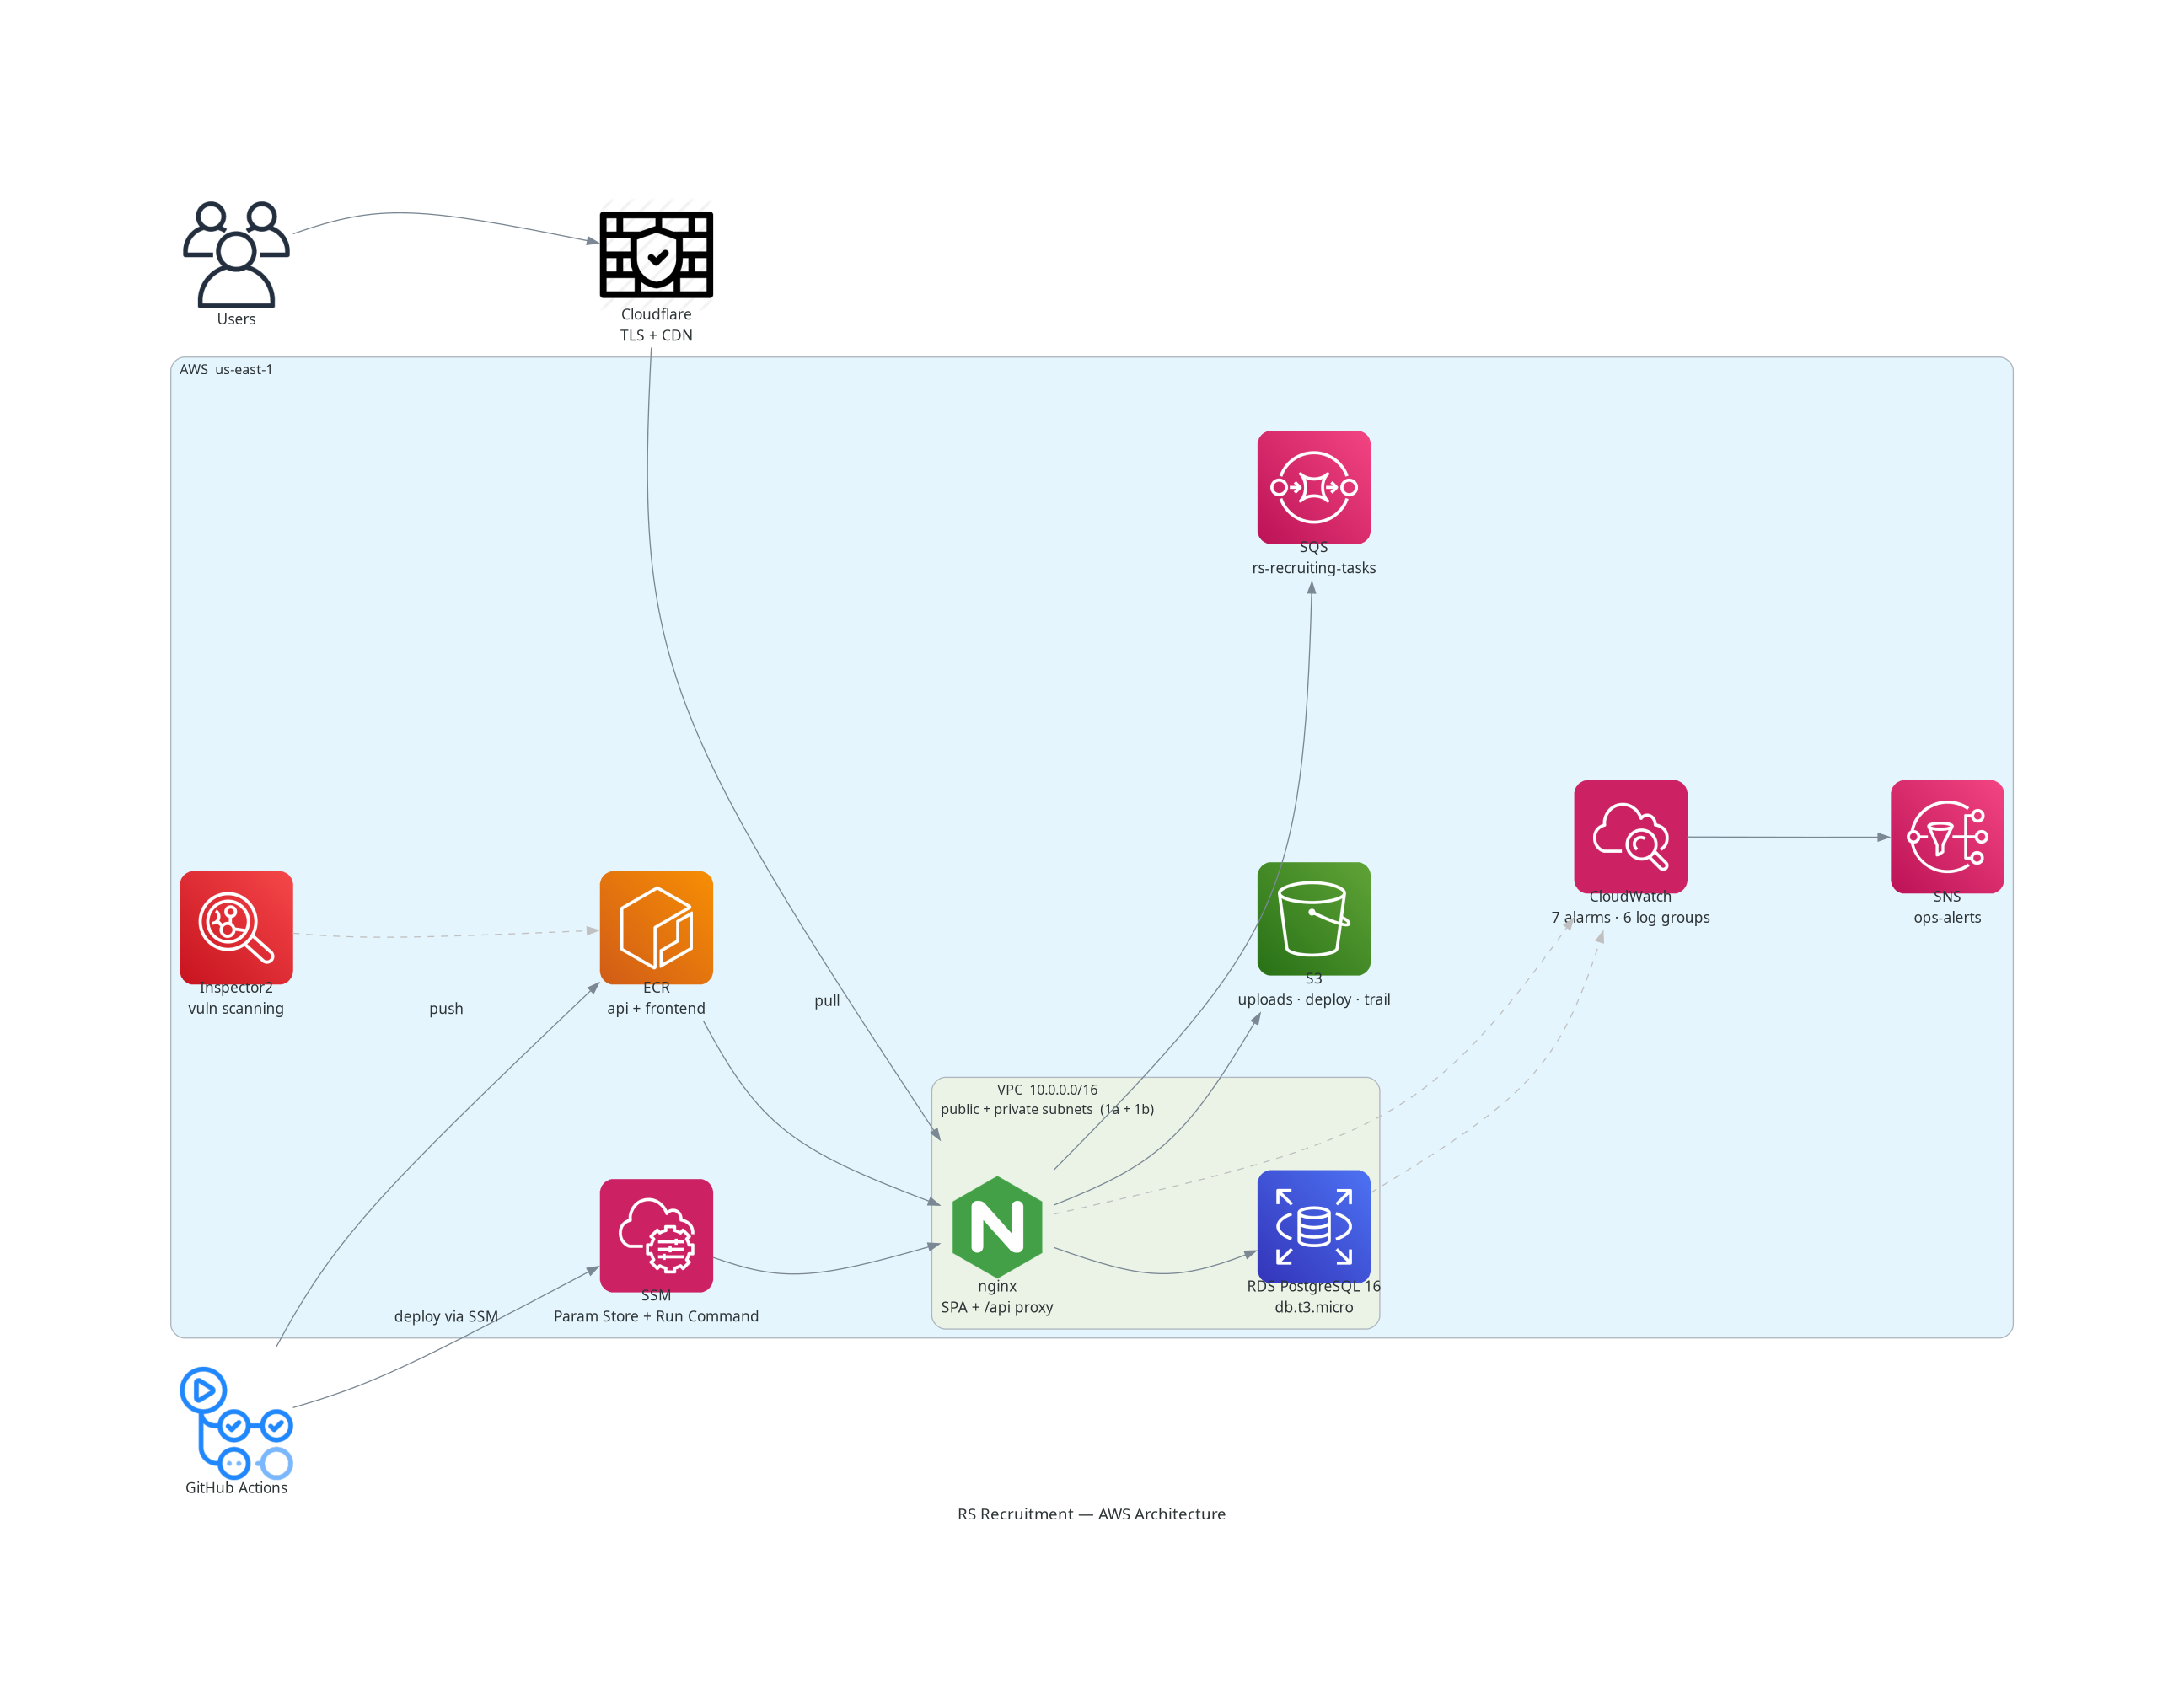
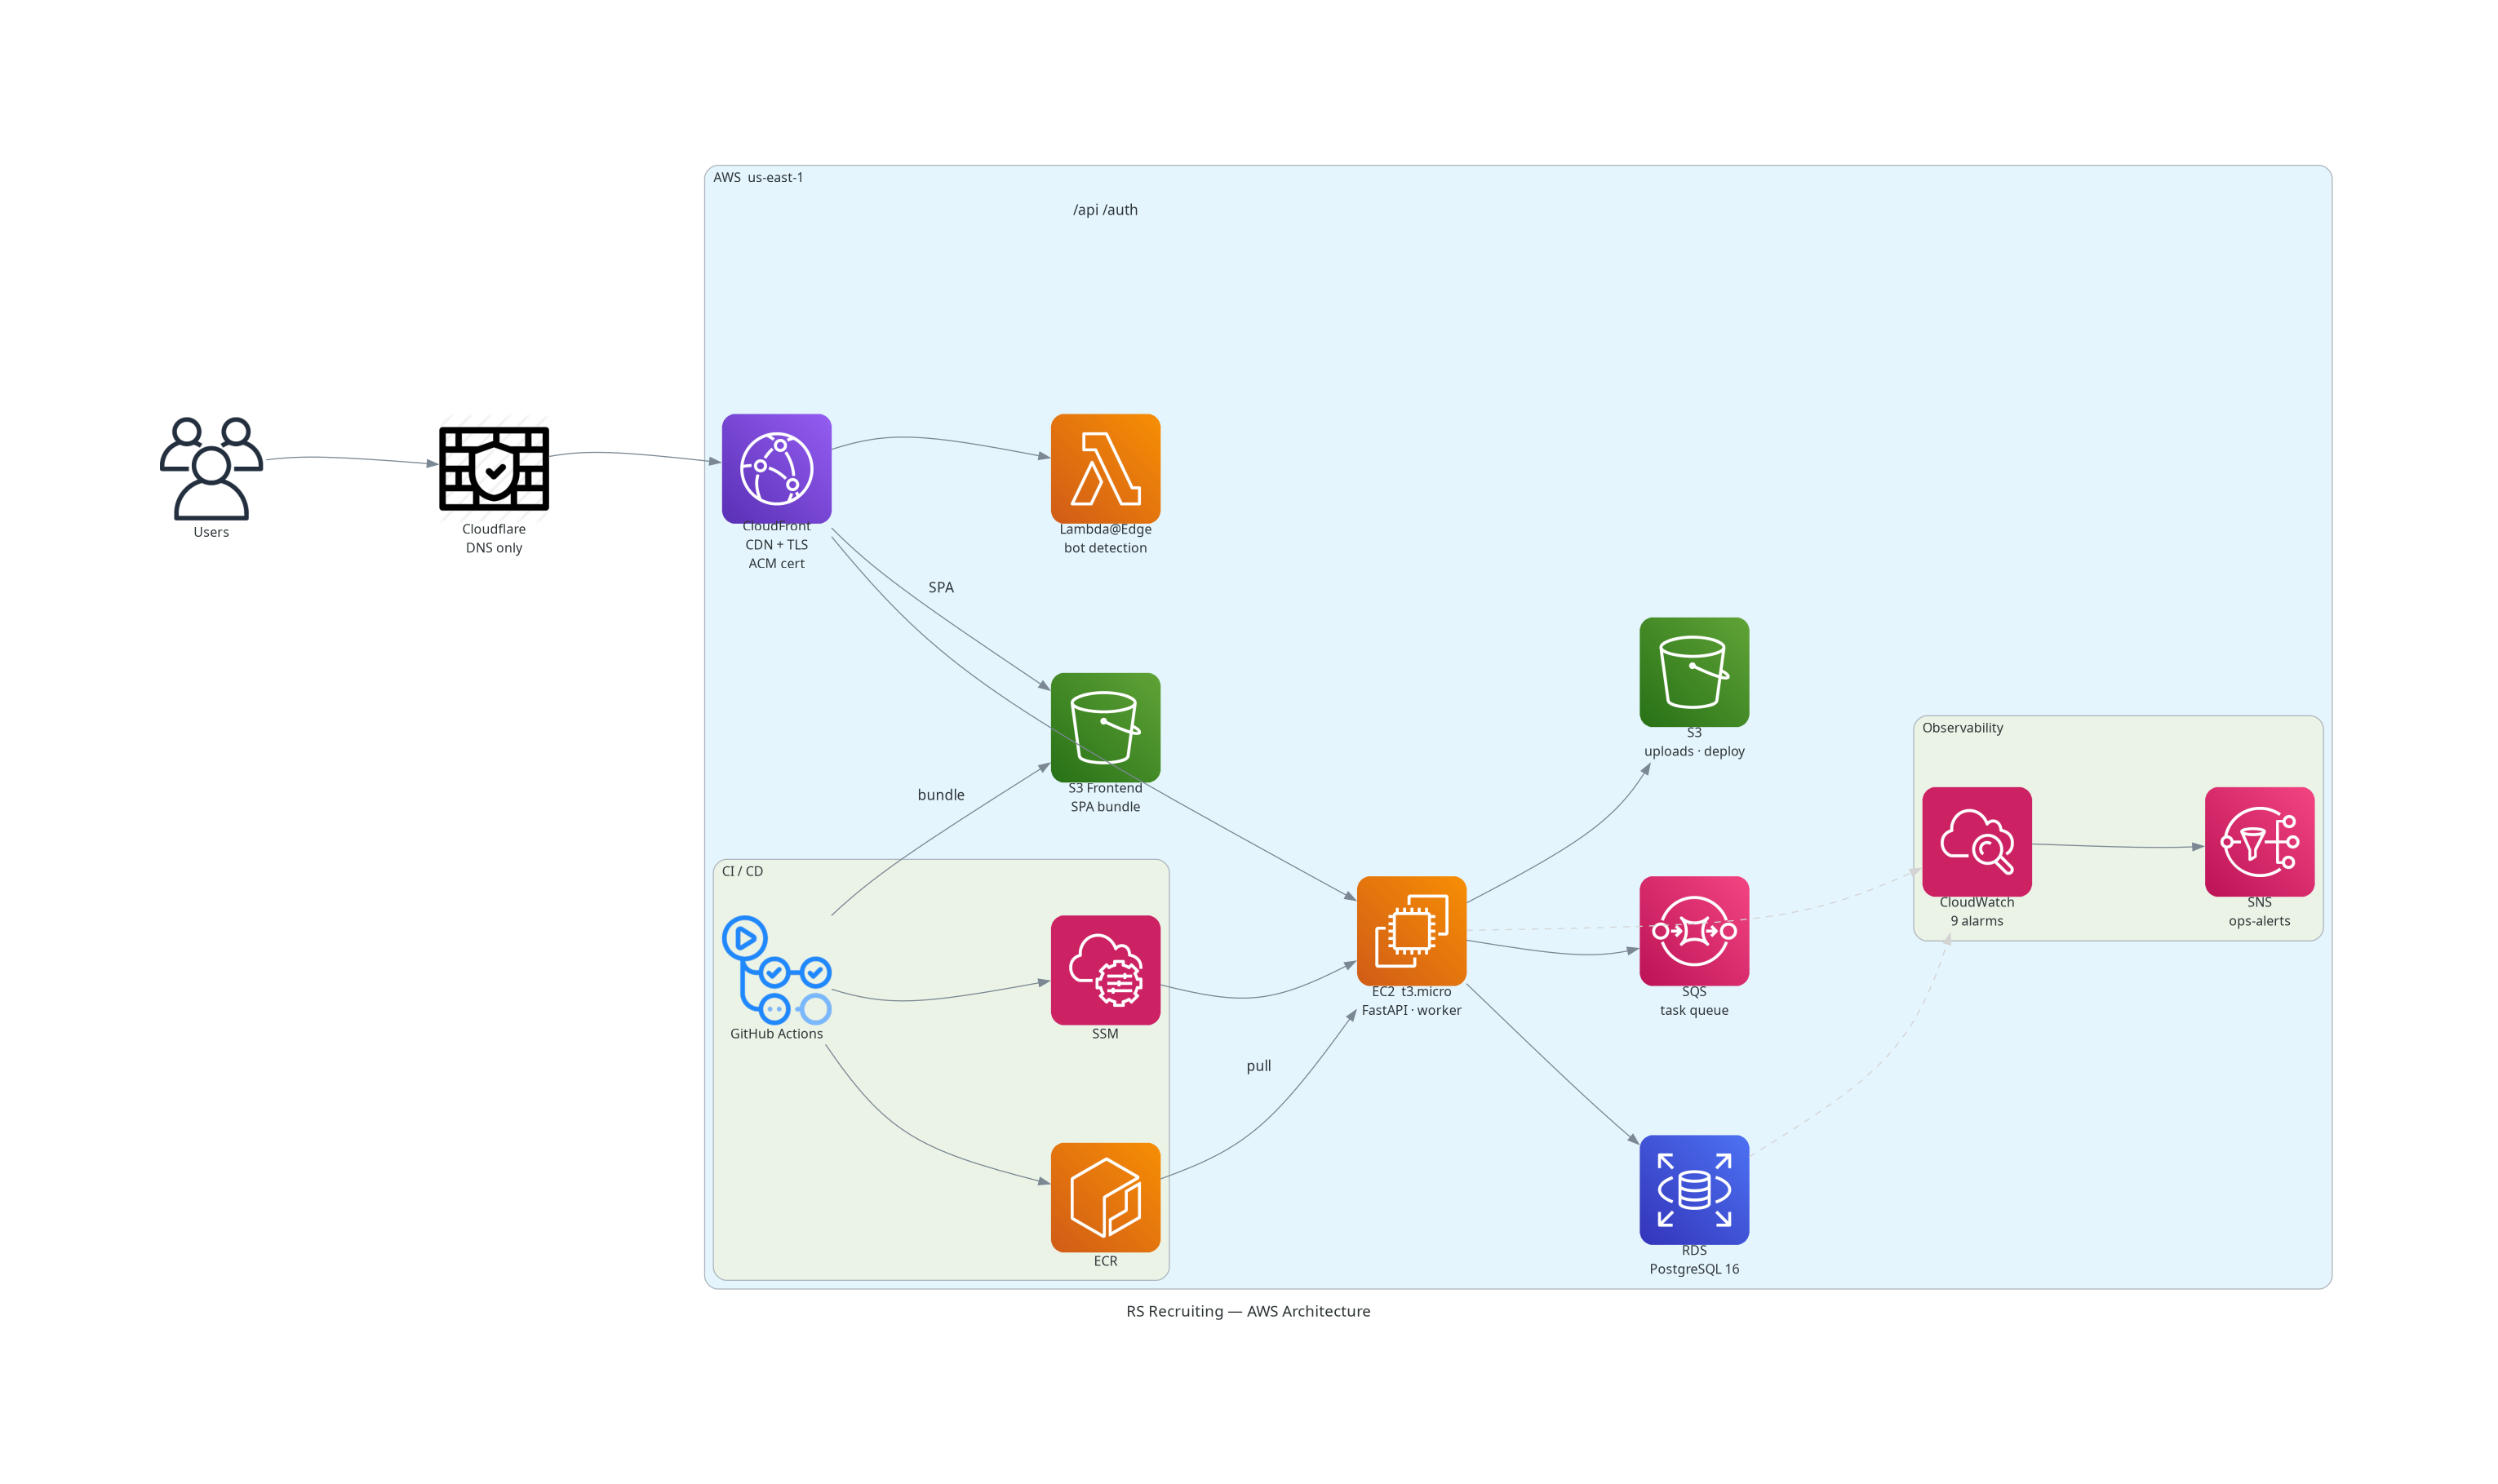
docs: update all infra docs and architecture diagram for CloudFront migration (#727)
- README: update tech stack row (CloudFront replaces Cloudflare CDN) and
  architecture caption (S3 SPA origin, Lambda@Edge, EC2 API behaviors)
- ARCHITECTURE.md: update Production Infrastructure section — CloudFront
  distribution with S3 + EC2 origins, ACM cert, Cloudflare DNS-only
- INFRASTRUCTURE.md: rewrite topology diagram, network notes, security
  group table, storage inventory, resource inventory (add CloudFront +
  ACM), and mark TLS_CERT/TLS_KEY SSM params as superseded; add 2026-06-04
  decisions log entry for the CloudFront migration
- generate_diagram.py: regenerate architecture PNG — CloudFront layer,
  Lambda@Edge, S3 frontend bucket, nginx removed from request path

diff --git a/docs/generate_diagram.py b/docs/generate_diagram.py
@@ -1,32 +1,31 @@
 from diagrams import Cluster, Diagram, Edge
-from diagrams.aws.compute import ECR
+from diagrams.aws.compute import EC2, ECR, Lambda
 from diagrams.aws.database import RDS
 from diagrams.aws.integration import SNS, SQS
 from diagrams.aws.management import SSM, Cloudwatch
-from diagrams.aws.security import Inspector
+from diagrams.aws.network import CloudFront
 from diagrams.aws.storage import S3
 from diagrams.generic.network import Firewall
 from diagrams.onprem.ci import GithubActions
 from diagrams.onprem.client import Users
-from diagrams.onprem.network import Nginx
 
 graph_attr = {
     "fontsize": "14",
     "bgcolor": "white",
     "pad": "2.0",
     "splines": "curved",
-    "nodesep": "1.5",
-    "ranksep": "2.5",
+    "nodesep": "1.0",
+    "ranksep": "2.2",
     "overlap": "false",
 }
 
 node_attr = {
-    "fontsize": "13",
-    "margin": "0.5,0.4",
+    "fontsize": "12",
+    "margin": "0.4,0.3",
 }
 
 with Diagram(
-    "RS Recruitment — AWS Architecture",
+    "RS Recruiting — AWS Architecture",
     filename="docs/screenshots/aws-architecture",
     outformat="png",
     show=False,
@@ -34,36 +33,50 @@ with Diagram(
     node_attr=node_attr,
     direction="LR",
 ):
+    # ── Left: ingress ──────────────────────────────────────────
     users = Users("Users")
-    cloudflare = Firewall("Cloudflare\nTLS + CDN")
-    github = GithubActions("GitHub Actions")
+    cloudflare = Firewall("Cloudflare\nDNS only")
 
     with Cluster("AWS  us-east-1"):
-        ecr = ECR("ECR\napi + frontend")
-        ssm = SSM("SSM\nParam Store + Run Command")
-        s3 = S3("S3\nuploads · deploy · trail")
-        cw = Cloudwatch("CloudWatch\n7 alarms · 6 log groups")
-        sns = SNS("SNS\nops-alerts")
-        sqs = SQS("SQS\nrs-recruiting-tasks")
-        inspector = Inspector("Inspector2\nvuln scanning")
+        # CDN layer
+        cf = CloudFront("CloudFront\nCDN + TLS\nACM cert")
+        le = Lambda("Lambda@Edge\nbot detection")
 
-        with Cluster("VPC  10.0.0.0/16\npublic + private subnets  (1a + 1b)"):
-            nginx = Nginx("nginx\nSPA + /api proxy")
-            rds = RDS("RDS PostgreSQL 16\ndb.t3.micro")
+        # Serving layer
+        s3_fe = S3("S3 Frontend\nSPA bundle")
+        ec2 = EC2("EC2  t3.micro\nFastAPI · worker")
 
-    # Request path
-    users >> cloudflare >> nginx
-    nginx >> rds
-    nginx >> sqs
-    nginx >> s3
+        # Data layer
+        rds = RDS("RDS\nPostgreSQL 16")
+        sqs = SQS("SQS\ntask queue")
+        s3_app = S3("S3\nuploads · deploy")
 
-    # CI/CD
-    github >> Edge(label="push") >> ecr
-    github >> Edge(label="deploy via SSM") >> ssm >> nginx
-    ecr >> Edge(label="pull") >> nginx
+        # CI / CD
+        with Cluster("CI / CD"):
+            github = GithubActions("GitHub Actions")
+            ecr = ECR("ECR")
+            ssm = SSM("SSM")
 
-    # Observability
-    nginx >> Edge(style="dashed", color="gray") >> cw
-    rds >> Edge(style="dashed", color="gray") >> cw
+        # Observability
+        with Cluster("Observability"):
+            cw = Cloudwatch("CloudWatch\n9 alarms")
+            sns = SNS("SNS\nops-alerts")
+
+    # ── Request path ──────────────────────────────────────────
+    users >> cloudflare >> cf
+    cf >> le
+    cf >> Edge(label="SPA") >> s3_fe
+    cf >> Edge(label="/api /auth") >> ec2
+    ec2 >> rds
+    ec2 >> sqs
+    ec2 >> s3_app
+
+    # ── CI / CD ───────────────────────────────────────────────
+    github >> ecr >> Edge(label="pull") >> ec2
+    github >> Edge(label="bundle") >> s3_fe
+    github >> ssm >> ec2
+
+    # ── Observability ─────────────────────────────────────────
+    ec2 >> Edge(style="dashed", color="lightgray") >> cw
+    rds >> Edge(style="dashed", color="lightgray") >> cw
     cw >> sns
-    inspector >> Edge(style="dashed", color="gray") >> ecr

diff --git a/docs/INFRASTRUCTURE.md b/docs/INFRASTRUCTURE.md
@@ -13,12 +13,18 @@ For higher-level architectural decisions (auth model, framework choices, etc.) s
 ```mermaid
 flowchart LR
   User((User))
-  CF["Cloudflare<br/>DNS + CDN + DDoS"]
+  CF["Cloudflare<br/>DNS only (grey-cloud)"]
 
   subgraph aws["AWS us-east-1"]
+    subgraph cdn["CloudFront d2ghcom3efd3zg"]
+      LE["Lambda@Edge<br/>viewer-request<br/>bot detection"]
+      CFD["CloudFront distribution<br/>rs-recruiting.com + www<br/>ACM cert TLS"]
+    end
+
+    S3FE[("S3 bucket<br/>rs-recruiting-frontend<br/>SPA bundle · 3-day lifecycle")]
+
     subgraph vpc["VPC 10.0.0.0/16 (<VPC_ID>)"]
       subgraph ec2host["EC2 t3.micro<br/><EC2_INSTANCE_ID> (rs-server)<br/>EIP <ELASTIC_IP>"]
-        nginx["frontend<br/>nginx:alpine<br/>port 443"]
         api["api<br/>FastAPI<br/>port 8000"]
         worker["worker<br/>Arq"]
         redis["redis<br/>port 6379"]
@@ -29,7 +35,6 @@ flowchart LR
     S3A[("S3 bucket<br/>rs-recruitment-app<br/>versioning suspended · SSE-S3<br/>resumes + deploy artifacts")]
     S3CT[("S3 bucket<br/>rs-recruitment-cloudtrail<br/>versioned · SSE-S3 · BPA full")]
     ECR1[("ECR rs-recruitment/api<br/>IMMUTABLE · scanOnPush")]
-    ECR2[("ECR rs-recruitment/frontend<br/>IMMUTABLE · scanOnPush")]
     SSM[("SSM Parameter Store<br/>secrets + CURRENT_SHA")]
     CW["CloudWatch<br/>5 log groups · 9 alarms · 1 dashboard"]
     CT["CloudTrail<br/>multi-region · log validation"]
@@ -40,8 +45,10 @@ flowchart LR
   GHA["GitHub Actions<br/>OIDC role"]
   Email["ops email"]
 
-  User --> CF --> nginx
-  nginx --> api
+  User --> CF --> CFD
+  CFD --> LE
+  CFD -->|default behavior| S3FE
+  CFD -->|"/api/* /auth/* /health"| api
   api --> redis
   api --> RDS
   worker --> redis
@@ -52,12 +59,11 @@ flowchart LR
   worker --> SSM
 
   GHA -->|push images| ECR1
-  GHA -->|push images| ECR2
+  GHA -->|"s3 sync frontend bundle"| S3FE
   GHA -->|deploy artifacts| S3A
   GHA -->|run command| ec2host
   GHA -->|put CURRENT_SHA| SSM
   ec2host -->|pull images| ECR1
-  ec2host -->|pull images| ECR2
   ec2host -->|logs + metrics| CW
   ec2host -->|API calls audit| CT
   CT -->|deliver logs| S3CT
@@ -69,15 +75,16 @@ flowchart LR
 ### Network notes
 
 - **Single VPC** (`<VPC_ID>`); default VPC was deleted 2026-05-09.
-- **No NAT Gateway, no ALB, no CloudFront.** EC2 has an Elastic IP and reaches the internet via IGW. TLS terminates at the nginx container on the EC2.
-- **DNS lives at Cloudflare**, not Route 53. The only Route 53 resource is one health check (`<R53_HC_ID>`) used by `rs-recruiting-uptime` alarm.
-- **No ACM cert.** TLS cert + key live in SSM SecureString; materialized to a host bind-mount at deploy time.
+- **No NAT Gateway, no ALB.** EC2 has an Elastic IP and reaches the internet via IGW. TLS terminates at CloudFront via ACM — EC2 only accepts HTTP :80 from the CloudFront managed prefix list.
+- **CloudFront distribution** (`d2ghcom3efd3zg.cloudfront.net`) sits in front of both the S3 frontend bucket (default behavior) and EC2 (API behaviors). Lambda@Edge on the viewer-request event handles bot/crawler detection for OG prerendering.
+- **DNS lives at Cloudflare** (grey-cloud, DNS only — proxying disabled). The only Route 53 resource is one health check (`<R53_HC_ID>`) used by `rs-recruiting-uptime` alarm.
+- **ACM certificate** (`arn:aws:acm:us-east-1:892512306022:certificate/d0e1d1f5-7bc9-41f8-9d81-98cb3786a626`) validated for `rs-recruiting.com` and `www.rs-recruiting.com`; attached to the CloudFront distribution.
 
 ### Security groups
 
 | SG | Purpose | Ingress | Egress |
 |---|---|---|---|
-| `Web-SG` (`<WEB_SG_ID>`) | Public-facing on EC2 | `:443` from `0.0.0.0/0`, `:22` from `<ADMIN_IP>/32` | (default all-out) |
+| `Web-SG` (`<WEB_SG_ID>`) | Public-facing on EC2 | `:80` from CloudFront managed prefix list (`com.amazonaws.global.cloudfront.origin-facing`), `:22` from `<ADMIN_IP>/32` | (default all-out) |
 | `App-SG` (`<APP_SG_ID>`) | Inter-container on EC2 | `:8000` from Web-SG, `:6379` self-ref | `:443/80` to `0.0.0.0/0`, `:5432` to `0.0.0.0/0`, SMTP `:465/587` |
 | `RDS-SG` (`<RDS_SG_ID>`) | RDS Postgres | `:5432` from App-SG | (default all-out) |
 | `default` (`<DEFAULT_SG_ID>`) | VPC default — unused | (default self-ref) | (default all-out) |
@@ -99,7 +106,7 @@ flowchart LR
   EC2 -->|"fetch deploy_ec2.sh"| S3
   EC2 -->|"pull images by SHA"| ECR1
   EC2 -->|"pull images by SHA"| ECR2
-  EC2 -->|"materialize TLS<br/>docker compose up<br/>migrate"| running["Running stack"]
+  EC2 -->|"docker compose up<br/>migrate"| running["Running stack"]
   CI -->|"on success"| SHA_PARAM["SSM CURRENT_SHA set to SHA"]
 ```
 
@@ -117,7 +124,9 @@ flowchart LR
 ### Compute & data
 | Resource | Identifier | Notes |
 |---|---|---|
-| EC2 | `<EC2_INSTANCE_ID>` (t3.micro) | IMDSv2 required, basic monitoring, in `App-SG` + `Web-SG` |
+| CloudFront | `d2ghcom3efd3zg.cloudfront.net` | Custom domains: `rs-recruiting.com`, `www.rs-recruiting.com`. S3 default origin + EC2 API behaviors. Lambda@Edge viewer-request for bot detection. |
+| ACM certificate | `arn:aws:acm:us-east-1:892512306022:certificate/d0e1d1f5-7bc9-41f8-9d81-98cb3786a626` | `us-east-1` (required for CloudFront). Covers apex + www. |
+| EC2 | `<EC2_INSTANCE_ID>` (t3.micro) | IMDSv2 required, basic monitoring, in `App-SG` + `Web-SG`. Port 80 restricted to CloudFront prefix list. |
 | EBS root | `<EBS_VOL_ID>` (8 GB gp3) | **Unencrypted** (pre-default-encryption); account-default now ON; one-shot re-encryption pending |
 | Elastic IP | `<ELASTIC_IP>` (`<EIP_ASSOC_ID>`) | Attached to EC2 |
 | RDS | `rs-recruitment-prod-db` (db.t3.micro) | Postgres 16, single-AZ, encrypted, 7d backup retention, deletion protection ON, Performance Insights 7d, postgresql log export to CW |
@@ -127,9 +136,9 @@ flowchart LR
 | Bucket / repo | Purpose | Settings |
 |---|---|---|
 | `<APP_BUCKET>` | App data — resumes (`resumes/`), public assets (`public/*`), deploy artifacts (`deploy/${SHA}/`) | **Versioning SUSPENDED** (was ON; suspended 2026-05-13 — see decisions log). SSE-S3. BPA partial (public path allowed for BIMI logo). **Lifecycle:** noncurrent versions expire after 1d; delete markers auto-cleaned (`ExpiredObjectDeleteMarker: true`); abort incomplete multipart 7d. Deploy artifacts (`deploy/` prefix) expire after 30d (S3 lifecycle rule — CI does not prune; see decisions log 2026-05-09). |
+| `rs-recruiting-frontend` | Frontend SPA bundle — CloudFront default-behavior origin | SSE-S3. **Lifecycle:** current versions expire after 3 days (stale bundle cleanup). CI syncs the new bundle and CloudFront serves from here; previous deploy's assets expire automatically. |
 | `<CLOUDTRAIL_BUCKET>` | CloudTrail logs | Versioning ON, SSE-S3, BPA full block |
 | ECR `rs-recruitment/api` | Backend image | IMMUTABLE, scanOnPush, lifecycle "keep last 10 images" (manually applied — no IaC) |
-| ECR `rs-recruitment/frontend` | Frontend image (multistage build) | IMMUTABLE, scanOnPush, lifecycle "keep last 10 images" (manually applied — no IaC) |
 
 ### IAM
 | Principal | Type | What it does |
@@ -149,7 +158,7 @@ Default EBS encryption: ON (account-wide).
 |---|---|
 | SSM `/rs-recruitment/prod/*` | App secrets (DATABASE_URL, JWT_SECRET_KEY, SMTP_*, STORAGE_PROVIDER, etc.) — SecureString where appropriate. **Naming convention: parameter names are UPPERCASE**; the app loader lowercases them to match snake_case Pydantic field names. Keep new params UPPERCASE for operator clarity. |
 | SSM `/rs-recruitment/infra/CURRENT_SHA` | String — current deployed SHA (deploy version pointer) |
-| SSM `/rs-recruitment/infra/TLS_CERT`, `TLS_KEY` | SecureString — TLS cert/key for the frontend nginx |
+| SSM `/rs-recruitment/infra/TLS_CERT`, `TLS_KEY` | SecureString — **superseded** by ACM + CloudFront; no longer materialized at deploy time. Kept in SSM pending cleanup. |
 | KMS | 2 customer-managed keys (default RDS + SSM) |
 | Route 53 | 1 health check; no hosted zones (DNS at Cloudflare) |
 
@@ -202,6 +211,11 @@ Default EBS encryption: ON (account-wide).
 ## 4. Decisions log (append-only)
 
 Newest first. Each entry: date, what, why, links. When updating, append; don't rewrite history.
+
+### 2026-06-04 — CloudFront + S3 frontend; custom domain via ACM (PR [#723](https://github.com/lahavrud/rs-recruiting/pull/723), infra PR [#1](https://github.com/lahavrud/rs-recruiting-infra/pull/1))
+**Decision:** Replace direct EC2 serving with a CloudFront distribution. Frontend SPA is now served from a dedicated S3 bucket (`rs-recruiting-frontend`, 3-day lifecycle). API traffic (`/api/*`, `/auth/*`, `/health`) continues to hit EC2, but now via CloudFront as an origin — no direct public exposure. Lambda@Edge viewer-request function handles bot/crawler detection and routes to the FastAPI OG prerender endpoint. TLS terminates at CloudFront via an ACM certificate (`us-east-1`) covering apex and www. EC2 port 443 (nginx TLS) is replaced by port 80 restricted to the CloudFront managed prefix list. Cloudflare DNS set to grey-cloud (DNS only) — proxying disabled so CloudFront handles its own TLS handshake. Custom domains wired as CloudFront aliases: `rs-recruiting.com` and `www.rs-recruiting.com`.
+**Why:** nginx TLS on EC2 required storing a cert+key in SSM and materializing it on every deploy — rotating it was manual. ACM auto-renews. S3 for the SPA removes the EC2 as a static-asset bottleneck, drops one concern from the EC2 deploy (no more `nginx.conf` in the image), and adds a CDN cache layer. CloudFront also gives us a single consistent TLS endpoint for both frontend and API, and Lambda@Edge bot detection runs at the edge rather than on every EC2 request.
+**Trade:** CloudFront adds ~$0.50–1/mo in CDN costs at current traffic (negligible). Lambda@Edge adds ~1ms viewer-request latency. The frontend bucket's 3-day lifecycle means a rollback window of 3 days; beyond that the old bundle is gone (acceptable — we can re-deploy any SHA from ECR history). Cloudflare proxying disabled — lose Cloudflare's DDoS scrubbing; CloudFront's WAF/Shield Standard replaces it.
 
 ### 2026-05-20 — Auth observability: structured log events, split metrics, brute-force alarm
 **Decision:** Added structured log events across the auth surface: `login_failed`, `login_account_locked`, `login_lockout_hit`, `login_email_not_found`, `login_success`, `rate_limit_hit` (all with `ip` field), `password_reset_token_invalid`, `registration_email_exists`. Fixed `request_id` correlation ID to appear in every JSON log line (`fmt` fix). Split the old combined `LoginFailureCount` metric filter into four distinct signals (`LoginFailedCount`, `AccountLockedCount`, `LockoutHitCount`, `RateLimitHitCount`) under `RsRecruiting/Auth`. Added alarm `auth-login-failed-spike` (> 10 in 5 min). Updated `rs-recruiting-ops` dashboard auth panel to show all four series. Added `RateLimitExceeded` exception handler that logs and returns clean JSON 429.

diff --git a/docs/ARCHITECTURE.md b/docs/ARCHITECTURE.md
@@ -608,22 +608,26 @@ erDiagram
 
 ### 2. Production Infrastructure
 
-**Decision:** Single EC2 instance running Docker Compose behind Cloudflare, with managed RDS PostgreSQL. Simple and cost-effective for MVP scale; migrating to ECS/ALB when load requires it.
+**Decision:** Single EC2 instance running Docker Compose behind CloudFront, with managed RDS PostgreSQL. Simple and cost-effective for MVP scale; migrating to ECS/ALB when load requires it.
 
 **Architecture:**
 
 ```
 Internet (HTTPS)
       │
-Cloudflare  ←── TLS termination, DDoS protection, CDN caching
-      │ HTTP :80
+Cloudflare (DNS only, grey-cloud — no proxy)
+      │
+CloudFront distribution (d2ghcom3efd3zg.cloudfront.net)
+  ├── Lambda@Edge viewer-request  ← bot/crawler detection → FastAPI OG prerender
+  ├── Default behavior            ← S3 origin (frontend SPA bundle, 3-day lifecycle)
+  └── /api/* /auth/* /health      ← EC2 origin (Host header forwarded)
+        │ HTTP :80 (CloudFront prefix list only)
 EC2 t3.micro (Amazon Linux 2023, us-east-1)
-  ├── nginx:alpine       ← serves React SPA + proxies /api /auth /health → api:8000
   ├── api container      ← FastAPI (pulled from ECR on each deploy)
   └── worker container   ← SQS worker (same ECR image, different CMD: python -m src.worker)
         │
 RDS PostgreSQL db.t3.micro  ← private subnets, encrypted at rest
-S3 rs-recruitment-*         ← file uploads + CI deploy artifacts
+S3 rs-recruitment-app       ← file uploads + CI deploy artifacts + frontend bundle
 ECR rs-recruitment/api      ← Docker image registry
 AWS SQS rs-recruiting-tasks ← async task queue (email sends, data exports, retention purge)
 ```
@@ -632,15 +636,17 @@ AWS SQS rs-recruiting-tasks ← async task queue (email sends, data exports, ret
 
 | Resource | Identifier | Purpose |
 |---|---|---|
-| EC2 | `<EC2_INSTANCE_ID>` | App server |
+| CloudFront | `d2ghcom3efd3zg.cloudfront.net` | CDN + TLS termination, S3 + EC2 origins |
+| ACM | `arn:aws:acm:us-east-1:892512306022:certificate/d0e1d1f5-…` | TLS cert for rs-recruiting.com + www |
+| EC2 | `<EC2_INSTANCE_ID>` | API + worker server (port 80, CloudFront-only) |
 | RDS | `rs-recruitment-prod-db` | PostgreSQL 16, private subnets |
-| S3 | `<APP_BUCKET>` | Uploads + deploy artifacts |
+| S3 | `<APP_BUCKET>` | Uploads + deploy artifacts + frontend bundle |
 | ECR | `rs-recruitment/api` | Docker images |
 | SQS | `rs-recruiting-tasks` | Async task queue for worker |
 | IAM Role (EC2) | `rs-recruitment-app-role` | SSM, ECR pull, S3, SQS receive/delete, CloudWatch metrics |
 | IAM Role (CI) | `github-actions-rs-recruitment` | OIDC, ECR push, S3 deploy, SSM send |
 
-**Domain:** `rs-recruiting.com` managed in Cloudflare (DNS, TLS via Cloudflare Flexible, CDN)
+**Domain:** `rs-recruiting.com` — DNS in Cloudflare (grey-cloud, DNS only). TLS terminates at CloudFront via ACM certificate (`us-east-1`). Cloudflare proxying intentionally disabled — CloudFront handles CDN and certificate.
 
 **Configuration:** Runtime secrets stored in a `.env` file on EC2 (`/home/ec2-user/app/.env`). Non-secret config stored in AWS SSM Parameter Store under `/rs-recruitment/prod/`.
 

diff --git a/README.md b/README.md
@@ -58,7 +58,7 @@ A full-stack recruitment CRM built for a boutique agency. Manages the full pipel
 | Email | Resend via SMTP relay (production) — provider abstraction; 10+ HTML templates |
 | Auth | JWT (PyJWT), bcrypt, HttpOnly refresh cookie, slowapi rate limiting |
 | Observability | Sentry (backend + frontend with source maps), Google Tag Manager, CloudWatch |
-| Infrastructure | EC2 + RDS + S3 + SQS + ECR + SSM, Cloudflare (TLS + CDN) |
+| Infrastructure | EC2 + RDS + S3 + SQS + ECR + SSM + CloudFront, Cloudflare (DNS only) |
 | CI/CD | GitHub Actions — OIDC auth, change detection, Pytest against PostgreSQL, SSM deploy |
 | Code Quality | Ruff, ESLint, TypeScript strict, 5 custom validation scripts, weekly pip-audit |
 
@@ -68,7 +68,7 @@ A full-stack recruitment CRM built for a boutique agency. Manages the full pipel
 
 <img src="docs/screenshots/aws-architecture.png" width="750" alt="AWS architecture diagram" />
 
-<p><em>Request path: Users → Cloudflare → nginx → API container → RDS / S3. Background jobs: SQS → worker container. CI/CD path: GitHub Actions → ECR (Docker images) + SSM Run Command → EC2. Observability: CloudWatch alarms → SNS ops-alerts; Inspector2 scanning ECR images. All secrets live in SSM Parameter Store as SecureStrings.</em></p>
+<p><em>Request path: Users → Cloudflare (DNS only) → CloudFront → S3 (frontend SPA) or EC2 via API/auth/health behaviors (Lambda@Edge handles bot detection for OG prerender). Background jobs: SQS → worker container. CI/CD path: GitHub Actions → S3 (frontend bundle) + ECR (Docker images) + SSM Run Command → EC2. Observability: CloudWatch alarms → SNS ops-alerts; Inspector2 scanning ECR images. All secrets live in SSM Parameter Store as SecureStrings.</em></p>
 
 ### Data model
 